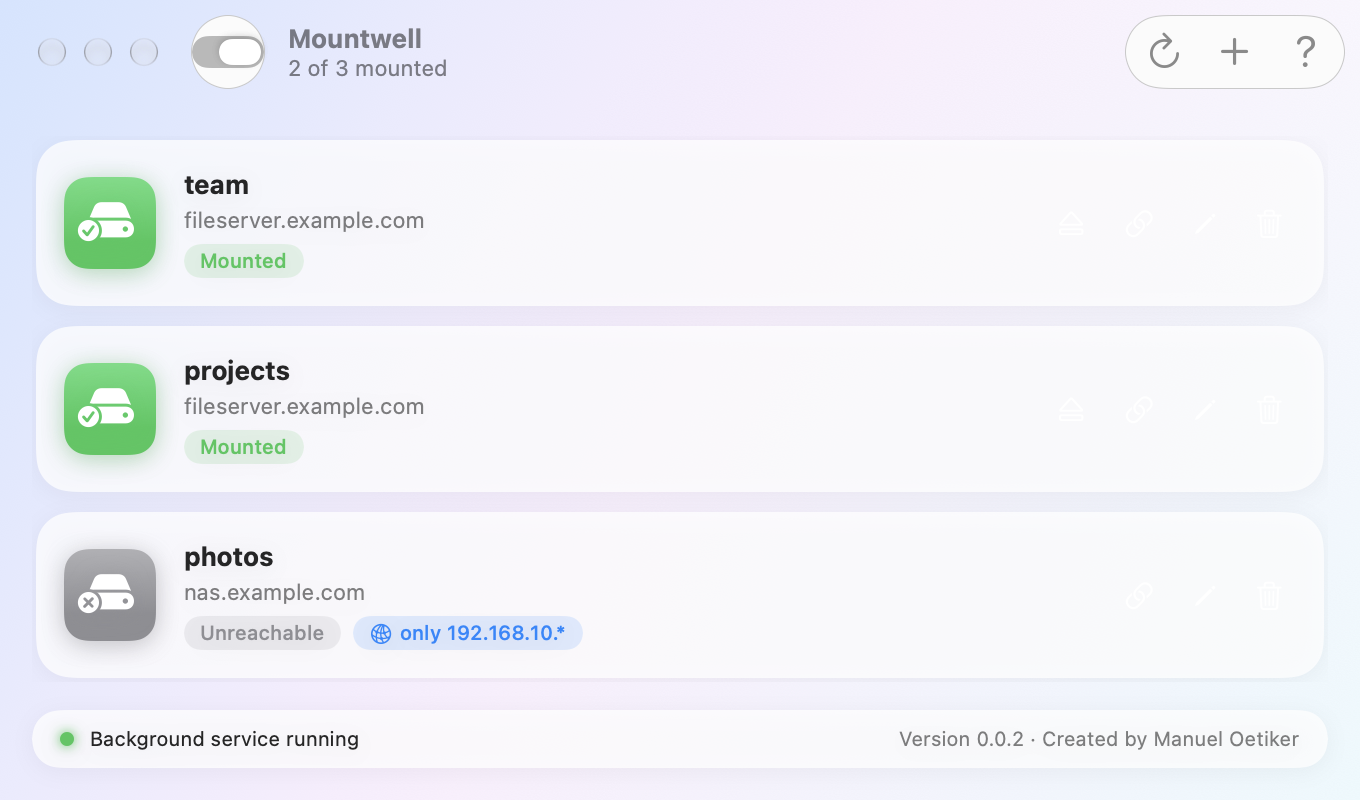
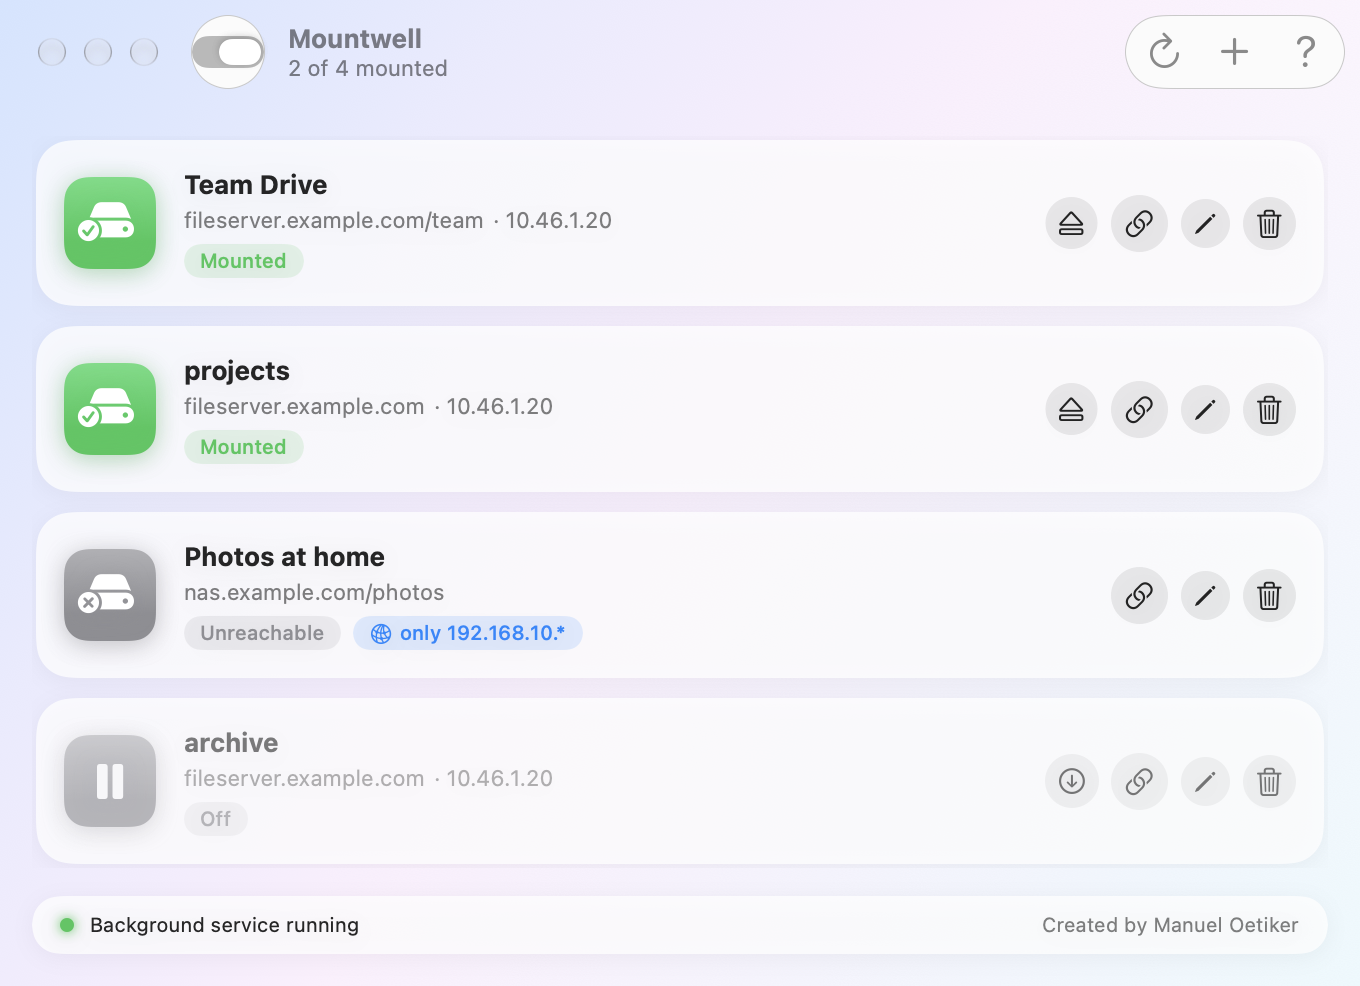
README for users without IT background, new pictures
The README now walks through installing, adding a drive, saving its password, importing
drives already connected and everyday use by clicking in the app. Configuration file,
the DNS fallback, Terminal install and development moved to the end.

tools/screenshot.sh renders three pictures: the main window, adding a share (a Windows
path offered as smb:// address) and Import Mounted Shares. SCREENSHOT builds leave out
the version, which was out of date in the README after every release, and draw the card
buttons at full strength with bordered style: faded until hover and drawn as Liquid
Glass by the window server, they were nearly invisible in an offscreen capture.

diff --git a/tools/screenshot/main.swift b/tools/screenshot/main.swift
@@ -1,33 +1,25 @@
-// Renders docs/screenshot.png from the real main window with example shares,
-// so the picture shows no real server or user. Run tools/screenshot.sh.
+// Renders the pictures in docs/ from the real views with example shares, so they show no
+// real server or user, and no version number (SCREENSHOT hides it). Run tools/screenshot.sh.
 // Named main.swift because Swift only allows top-level code there.
+//
+//   docs/screenshot.png         the main window
+//   docs/screenshot-add.png     adding a share: a Windows path is offered as smb:// address
+//   docs/screenshot-import.png  Import Mounted Shares
 
 import AppKit
 import SwiftUI
 
-let out = CommandLine.arguments[1]
+let dir = CommandLine.arguments[1]
 NSApplication.shared.setActivationPolicy(.accessory)
 
-MainActor.assumeIsolated {
-    let m = Model(live: false)
-    m.shares = [
-        Share(url: "smb://fileserver.example.com/team", networks: ""),
-        Share(url: "smb://fileserver.example.com/projects", networks: ""),
-        Share(url: "smb://nas.example.com/photos", networks: "192.168.10."),
-    ]
-    m.mountPoints = [
-        "fileserver.example.com/team": "/Volumes/team",
-        "fileserver.example.com/projects": "/Volumes/projects",
-    ]
-    m.reachable = ["fileserver.example.com": true, "nas.example.com": false]
-    m.agentLoaded = true
-
-    let window = NSWindow(contentRect: NSRect(x: -5000, y: 0, width: 680, height: 400),
-                          styleMask: [.titled, .closable, .miniaturizable, .fullSizeContentView],
-                          backing: .buffered, defer: false)
+@MainActor
+func render<V: View>(_ view: V, width: CGFloat, toolbar: Bool, to name: String) {
+    let style: NSWindow.StyleMask = toolbar ? [.titled, .closable, .miniaturizable, .fullSizeContentView] : [.titled]
+    let window = NSWindow(contentRect: NSRect(x: -5000, y: 0, width: width, height: 400),
+                          styleMask: style, backing: .buffered, defer: false)
     window.appearance = NSAppearance(named: .aqua)
-    window.toolbarStyle = .unified
-    let host = NSHostingController(rootView: ContentView(m: m).frame(width: 680))
+    if toolbar { window.toolbarStyle = .unified }
+    let host = NSHostingController(rootView: view.frame(width: width))
     host.sizingOptions = [.preferredContentSize]   // the window follows the content, as in the app
     window.contentViewController = host
     window.setFrameOrigin(NSPoint(x: -5000, y: 0))
@@ -40,9 +32,40 @@ MainActor.assumeIsolated {
     window.setContentSize(host.view.fittingSize)
     RunLoop.main.run(until: Date().addingTimeInterval(1))
 
-    let view = window.contentView!.superview!
-    let rep = view.bitmapImageRepForCachingDisplay(in: view.bounds)!
-    view.cacheDisplay(in: view.bounds, to: rep)
+    let v = window.contentView!.superview!
+    let rep = v.bitmapImageRepForCachingDisplay(in: v.bounds)!
+    v.cacheDisplay(in: v.bounds, to: rep)
+    let out = "\(dir)/\(name)"
     try! rep.representation(using: .png, properties: [:])!.write(to: URL(fileURLWithPath: out))
     print("wrote \(out) (\(rep.pixelsWide)×\(rep.pixelsHigh))")
+    window.orderOut(nil)
+}
+
+MainActor.assumeIsolated {
+    let m = Model(live: false)
+    m.shares = [
+        Share(url: "smb://fileserver.example.com/team", networks: "", alias: "Team Drive"),
+        Share(url: "smb://fileserver.example.com/projects", networks: ""),
+        Share(url: "smb://nas.example.com/photos", networks: "192.168.10.", alias: "Photos at home"),
+        Share(url: "smb://fileserver.example.com/archive", networks: "", enabled: false),
+    ]
+    m.mountPoints = [
+        "fileserver.example.com/team": "/Volumes/team",
+        "fileserver.example.com/projects": "/Volumes/projects",
+    ]
+    m.reachable = ["fileserver.example.com": true, "nas.example.com": false]
+    m.addresses = ["fileserver.example.com": ["10.46.1.20"]]
+    m.addressesWithPassword = ["10.46.1.20"]
+    m.agentLoaded = true
+    render(ContentView(m: m), width: 680, toolbar: true, to: "screenshot.png")
+
+    render(ShareEditor(share: Share(url: "\\\\fileserver.example.com\\team", networks: ""), isNew: true) { _ in },
+           width: 520, toolbar: false, to: "screenshot-add.png")
+
+    let found = """
+        //anna@fileserver.example.com/archive on /Volumes/archive (smbfs, nodev, nosuid, mounted by anna)
+        //anna@nas.example.com/music on /Volumes/music (smbfs, nodev, nosuid, mounted by anna)
+        """
+    let items = importProposals(found, configured: []).map { ImportItem(share: $0.share, mountPoint: $0.mountPoint) }
+    render(ImportSheet(items: items) { _ in }, width: 520, toolbar: false, to: "screenshot-import.png")
 }

diff --git a/app/MainWindow.swift b/app/MainWindow.swift
@@ -113,7 +113,12 @@ struct ShareCard: View {
             .glassButton()
             .buttonBorderShape(.circle)
             .controlSize(.large)
+            // faded until the mouse is over the card; the README pictures show them in full
+            #if SCREENSHOT
+            .opacity(1)
+            #else
             .opacity(hovering ? 1 : 0.55)
+            #endif
         }
         .padding(14)
         .frame(maxWidth: .infinity)
@@ -257,8 +262,14 @@ struct StatusBar: View {
                     .glassButton(prominent: true)
                     .disabled(updater.busy)
             }
+            #if SCREENSHOT
+            // the pictures in the README would show a stale version after every release
+            Text(verbatim: "Created by Manuel Oetiker")
+                .foregroundStyle(.secondary)
+            #else
             Text(verbatim: "Version \(appVersion) · Created by Manuel Oetiker")
                 .foregroundStyle(.secondary)
+            #endif
         }
         .font(.caption)
         .padding(.horizontal, 14)

diff --git a/app/Glass.swift b/app/Glass.swift
@@ -21,11 +21,16 @@ extension View {
 
     @ViewBuilder
     func glassButton(prominent: Bool = false) -> some View {
+        #if SCREENSHOT
+        // glass buttons are drawn by the window server too and came out nearly invisible
+        if prominent { self.buttonStyle(.borderedProminent) } else { self.buttonStyle(.bordered) }
+        #else
         if #available(macOS 26.0, *) {
             if prominent { self.buttonStyle(.glassProminent) } else { self.buttonStyle(.glass) }
         } else {
             if prominent { self.buttonStyle(.borderedProminent) } else { self.buttonStyle(.bordered) }
         }
+        #endif
     }
 }
 

diff --git a/README.md b/README.md
@@ -3,39 +3,98 @@
 [![CI](https://github.com/moetiker/mountwell/actions/workflows/ci.yml/badge.svg)](https://github.com/moetiker/mountwell/actions/workflows/ci.yml)
 [![Release](https://img.shields.io/github/v/release/moetiker/mountwell)](https://github.com/moetiker/mountwell/releases/latest)
 
-Mountwell mounts SMB shares on macOS while their file server is reachable, in the office
-network or over VPN, and unmounts them when it is not. Finder no longer hangs on a share
-whose server is gone, and after the VPN comes up the shares are there.
+Mountwell connects your Mac to the network drives (SMB shares) at work or at home as soon
+as their server can be reached, in the office or over VPN. When you leave, it disconnects
+them again, so Finder never hangs on a drive that is gone.
 
-![The Mountwell window with three shares](docs/screenshot.png)
+![The Mountwell window with four shares](docs/screenshot.png)
 
-- A background service checks every share on each network change and every minute.
-- Shares can be limited to networks by IP prefix, given an alias, switched off, and ejected by hand.
-- Shares already mounted in Finder can be imported from the menu bar menu.
-- A menu bar icon shows the state; the app checks addresses while you type them.
-- Mountwell can start at login, with or without its window (Settings, ⌘,).
-- The app follows the Mac's language (English or German) and finds its own updates.
+You add each drive once. After that Mountwell works in the background: open your laptop
+in the office or start the VPN, and the drives are there.
 
-macOS 14 or later, Apple silicon or Intel.
+It needs macOS 14 or later and runs on Apple silicon and Intel Macs. Mountwell shows
+itself in English or German, following your Mac's language.
 
 ## Install
 
-Download `Mountwell-<version>.pkg` from the
-[latest release](https://github.com/moetiker/mountwell/releases/latest) and open it, or
-install it in Terminal:
+1. Open the [latest release](https://github.com/moetiker/mountwell/releases/latest) and
+   click **Mountwell-….pkg** under *Assets* to download it.
+2. Double-click the downloaded file in your *Downloads* folder and follow the installer.
+   It asks for your Mac password at the end.
+3. Mountwell opens by itself. From now on it also sits in the menu bar at the top of the
+   screen.
+
+## Add a drive
+
+1. Click **+** in the Mountwell window.
+2. Enter the address of the drive, for example `smb://fileserver.example.com/team`. Your
+   IT department or the person who set up the server can tell you the address. A Windows
+   address such as `\\fileserver\team` works too: Mountwell offers to convert it.
+3. Optionally give the drive a name of your own under **Alias**, such as "Team Drive".
+4. Click **Save**.
+
+![Adding a drive: Mountwell converts a Windows address](docs/screenshot-add.png)
+
+While you type, Mountwell checks the address and explains what is wrong, for example a
+missing server name or a server that cannot be reached right now.
+
+**Save the password once.** Click the chain button on the drive (shown when you move the
+mouse over it). Finder asks for your user name and password: tick **Remember this
+password in my keychain** and click **Connect**. Without this step Mountwell cannot
+connect the drive on its own.
+
+## Drives you already use
+
+If you already connected drives in Finder, click the Mountwell icon in the menu bar and
+choose **Import Mounted Shares…**. Mountwell lists every connected drive it does not
+know yet; untick the ones you do not want and click **Import**.
+
+![Importing drives that are already connected](docs/screenshot-import.png)
+
+## Everyday use
+
+- **The menu bar icon** shows whether drives are connected. Its menu lists your drives;
+  each can be shown in Finder, ejected or connected from there.
+- **Eject a drive** with the eject button on the drive or in the menu bar. Mountwell then
+  leaves it alone until you connect it again or leave the network. Ejecting in Finder is
+  not enough: Mountwell would connect it again within a minute.
+- **Switch a drive off** without removing it: right-click it and untick
+  **Mount Automatically**. It stays in the list, greyed out.
+- **Start at login:** choose **Mountwell → Settings…** and turn on **Run at Login**.
+  With **Show Window at Login** the window opens too; otherwise Mountwell waits in the
+  menu bar.
+- **Updates:** Mountwell tells you when a new version is out. Click **Install** and enter
+  your Mac password.
+
+## When something does not work
+
+- Click **?** in the window for help on addresses, passwords and networks.
+- **View → Show Log** shows what Mountwell did and why.
+- A red dot at the bottom left means the background service is not running: click
+  **Load**.
+- A drive that says *Unreachable* cannot be reached from where you are. Start the VPN or
+  go to the network the drive belongs to.
+
+## Uninstall
+
+Open the *Terminal* app, paste this line, press Return and enter your Mac password:
+
+```sh
+sudo "/Applications/Mountwell.app/Contents/Resources/uninstall.sh"
+```
+
+Your list of drives stays in `~/.config/mountwell`, in case you install Mountwell again.
+
+## For administrators
+
+Install without the window:
 
 ```sh
 sudo installer -pkg Mountwell-<version>.pkg -target /
 ```
 
-Add your shares in the app, for example `smb://fileserver.example.com/team`. Then press
-the link button of each share once and choose **Remember this password in my keychain**,
-so the background service can mount without asking.
-
-## Configuration
-
-The app writes `~/.config/mountwell/shares.conf`, one share per line, with an optional
-list of IP prefixes and an optional alias after `#`. A leading `!` switches a share off:
+The drives are kept in `~/.config/mountwell/shares.conf`, one per line, with an optional
+list of IP prefixes and an optional alias after `#`. A leading `!` switches a drive off:
 
 ```
 smb://fileserver.example.com/team
@@ -43,24 +102,20 @@ smb://nas.example.com/photos 192.168.10. # Photos at home
 !smb://fileserver.example.com/archive
 ```
 
-If a server name stops resolving, for example when the VPN's DNS breaks, the background
-service mounts via the server's last known IP address, from the same network only. Connect
-once via that address (right-click the share) so its password is in the keychain too.
+While a server name resolves, the background service remembers the server's IP address,
+network and SMB server ID in `~/.config/mountwell/servers.yaml`. If the name later stops
+resolving, for example when the VPN's DNS breaks, it connects via that address, from the
+same network only and only if the same server answers. Connect once via the address
+(right-click the drive) so its password is in the keychain too.
 
-The log is `~/Library/Logs/mountwell.log`.
-
-## Uninstall
-
-```sh
-sudo "/Applications/Mountwell.app/Contents/Resources/uninstall.sh"
-```
-
-The configuration in `~/.config/mountwell` stays.
+The log is `~/Library/Logs/mountwell.log`. Releases are signed with a Developer ID and
+notarized by Apple; the app installs only updates signed by the same developer.
 
 ## Development
 
 ```sh
-./build.sh      # tests, then build/Mountwell-<version>.pkg
+./build.sh             # tests, then build/Mountwell-<version>.pkg
+tools/screenshot.sh    # the pictures in docs/, from the real views
 ```
 
 - [`docs/spec.md`](docs/spec.md): what Mountwell must do

diff --git a/docs/maintainer-notes.md b/docs/maintainer-notes.md
@@ -193,8 +193,10 @@ still applies.
 
 ## Screenshot
 
-- `tools/screenshot.sh` renders `ContentView` with `Model(live: false)` and example
-  shares. `-D SCREENSHOT` drops `@main`.
+- `tools/screenshot.sh` renders `ContentView`, `ShareEditor` and `ImportSheet` with
+  `Model(live: false)` and example shares into `docs/screenshot*.png`. `-D SCREENSHOT`
+  drops `@main` and the version in the status bar: a version in the README pictures was
+  out of date after the next release.
 - An offscreen capture misses Liquid Glass, so `SCREENSHOT` builds use a light fill.
 - `screencapture -l` needs Screen Recording and would show the real configuration.
 
